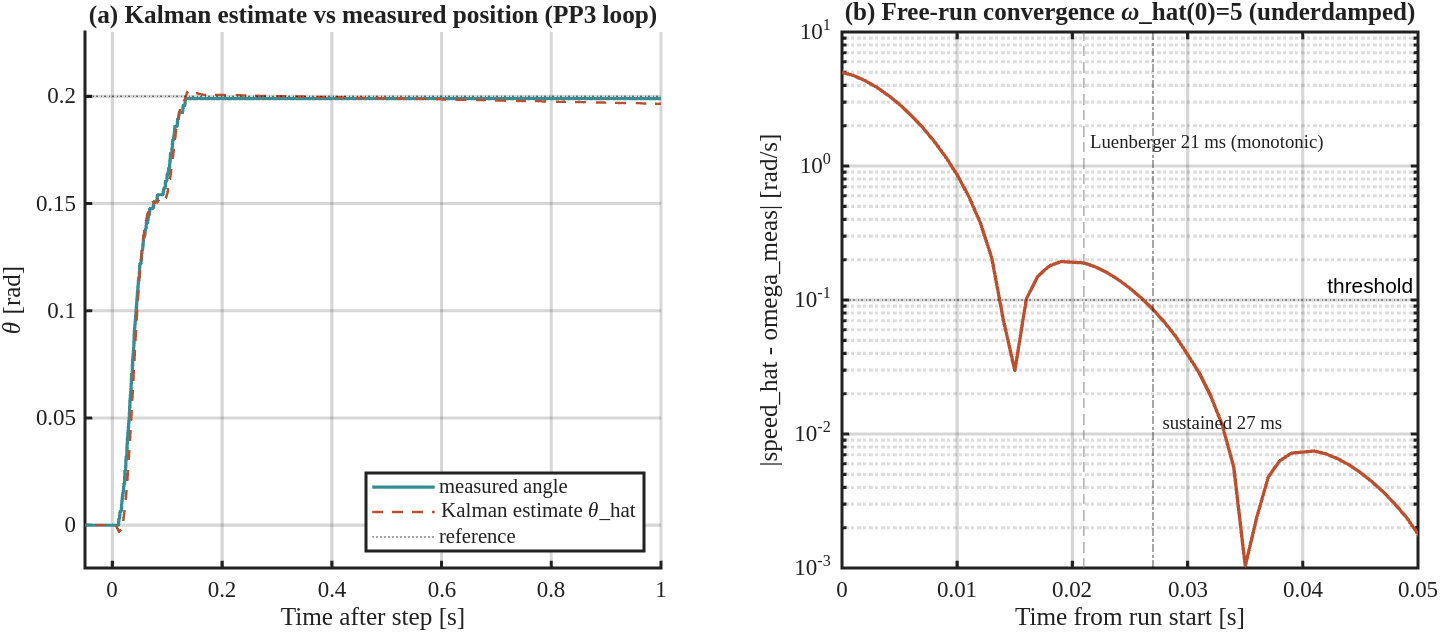
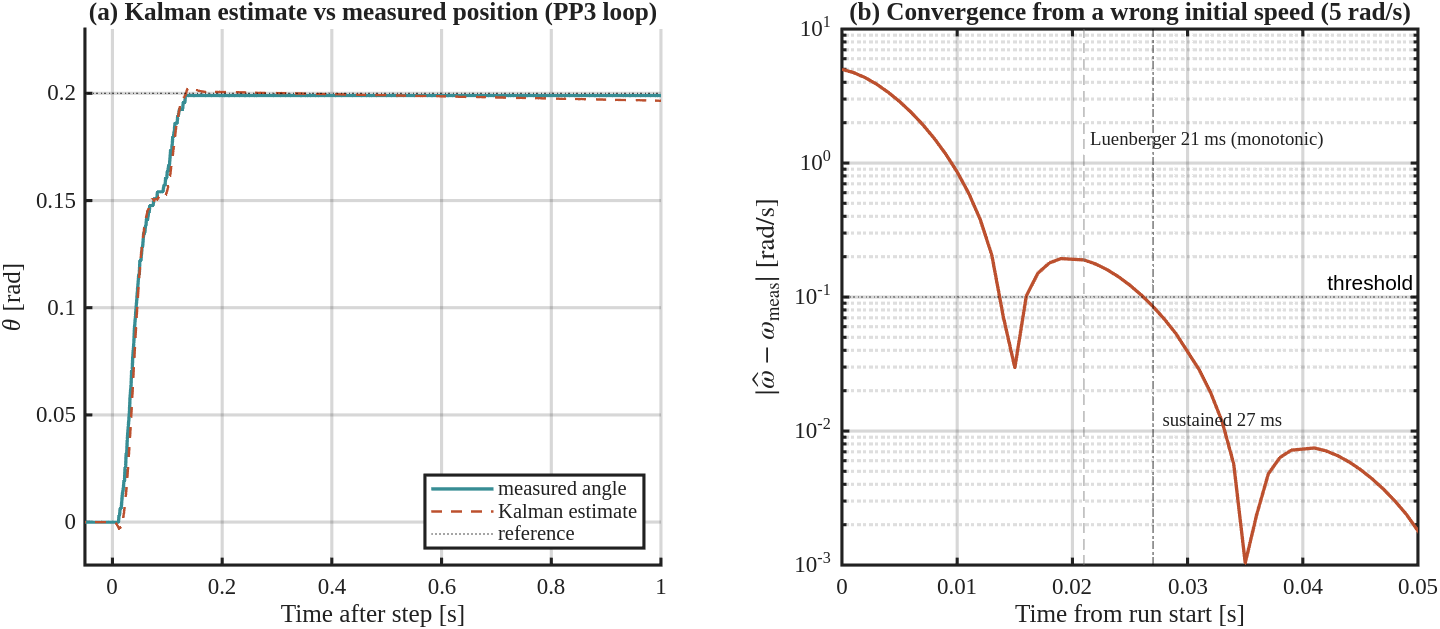
Inline math fixes

diff --git a/README.md b/README.md
@@ -135,7 +135,7 @@ Results for a `0.20 rad` position step:
 - **Overshoot:** `1.1%` with observer feedback vs `2.7%` with encoder-speed feedback (one encoder count difference).
 - **Rise time:** `92 ms` with observer feedback vs `83 ms` with encoder-speed feedback.
 
-In practice, an observer starts by guessing a speed (usually zero). Obviously this is a wrong estimate initially. How quickly this error is addressed depends on the observer gain `L` and not on the controller. To test this on the rig, the observer was tested with an intentionally wrong initial speed estimate: `omega_hat(0) = 5 rad/s`.
+In practice, an observer starts by guessing a speed (usually zero). Obviously this is a wrong estimate initially. How quickly this error is addressed depends on the observer gain `L` and not on the controller. To test this on the rig, the observer was tested with an intentionally wrong initial speed estimate: $\hat{\omega}(0) = 5$ rad/s.
 
 <p align="center">
   <img src="results/Luenberger_obs_conv.png" alt="Luenberger observer convergence from incorrect initial speed estimate" width="850">
@@ -151,7 +151,7 @@ The first test evaluates the observer on its own while the second checks if an i
 
 ### Kalman estimator and Linear–quadratic–Gaussian (LQG) control
 
-The Kalman estimator shares the same structure as the Luenberger observer with the exception that gain `L` is computed differently. Instead of direct placement of observer poles, the gain is decided based on two noise levels: (i) the encoder noise `R` which is set by quantization (`q²/12`, with `q = 3.21 mrad`), (ii) the process noise `Q` representing the unmodelled torque acting on the speed, and it was chosen in a manner to give an estimator os similar speed to the Luenberger observer for reliable comparison.   
+The Kalman estimator shares the same structure as the Luenberger observer with the exception that gain `L` is computed differently. Instead of direct placement of observer poles, the gain is decided based on two noise levels: (i) the measurement noise `R` based on encoder resolution (one count, `q = 3.21 mrad`, modelled as a uniform error of `±q/2` to give `R = q²/12`), (ii) the process noise `Q` representing the unmodelled torque acting on the speed, and it was chosen to give an estimator of similar speed to the Luenberger observer for reliable comparison.   
 
 Two tests were run: (i) the Kalman estimator replaced the Luenberger observer in the pole placement loop. (ii) the Kalman estimator is combined with the aggressive LQR gain to form the LQG controller.
 
@@ -159,10 +159,11 @@ Two tests were run: (i) the Kalman estimator replaced the Luenberger observer in
   <img src="results/LQG_estimator.png" alt="Kalman estimator: position tracking and free-run convergence" width="850">
 </p>
 
-Results with the pole placement controller (`0.20 rad` step):
+Results with the pole placement controller (`0.20 rad` step response):
 
-- **Tracking:** the same as with the Luenberger observer: `1.1%` overshoot and a steady-state error smaller than one encoder count.
-- **Convergence from a wrong speed estimate** (`omega_hat(0) = 5 rad/s`, motor at rest): because its poles are complex, the Kalman estimate overshoots. It first drops below `0.1 rad/s` at `14 ms` and stays below from `27 ms`, while the Luenberger estimate reached this in `21 ms` without overshoot.
+- **Tracking:** Similar to the Luenberger observer: `1.1%` overshoot with a steady-state error less than one encoder count.
+- **Convergence from a wrong speed estimate** ($\hat{\omega}(0) = 5$ rad/s
+, motor at rest): Since its poles are complex, the Kalman estimate overshoots. It first drops below `0.1 rad/s` at `14 ms` and stays below from `27 ms`, while the Luenberger estimate reached this in `21 ms` without overshoot.
 
 The second test checked whether a smoother speed estimate removes the limit cycle of the aggressive LQR gain. The same gain was run twice, once with the encoder speed and once with the Kalman estimate, with everything else unchanged (reference `0.20 rad`, duty limit `±0.35`).
 
